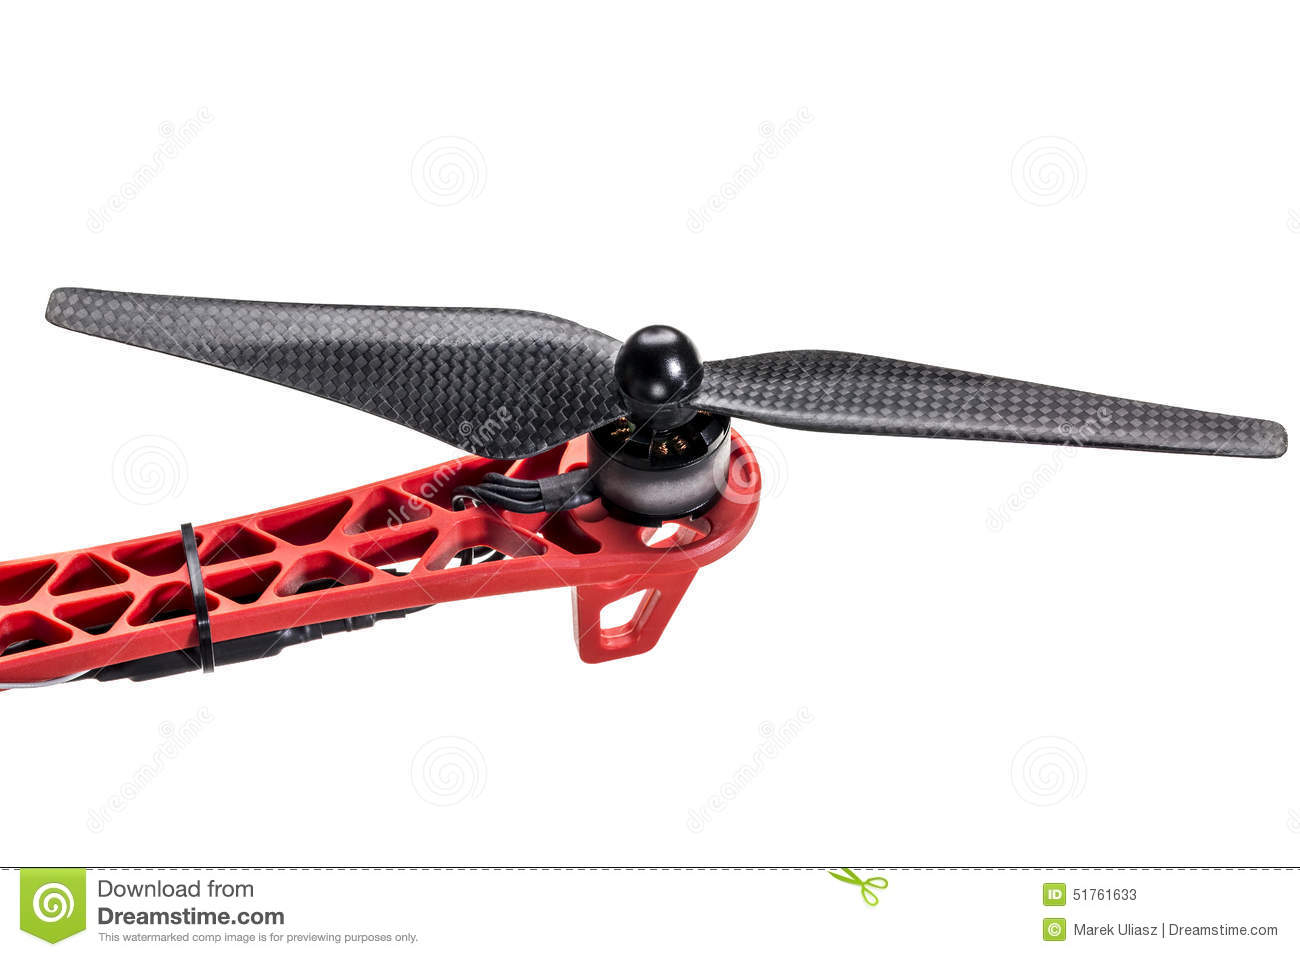
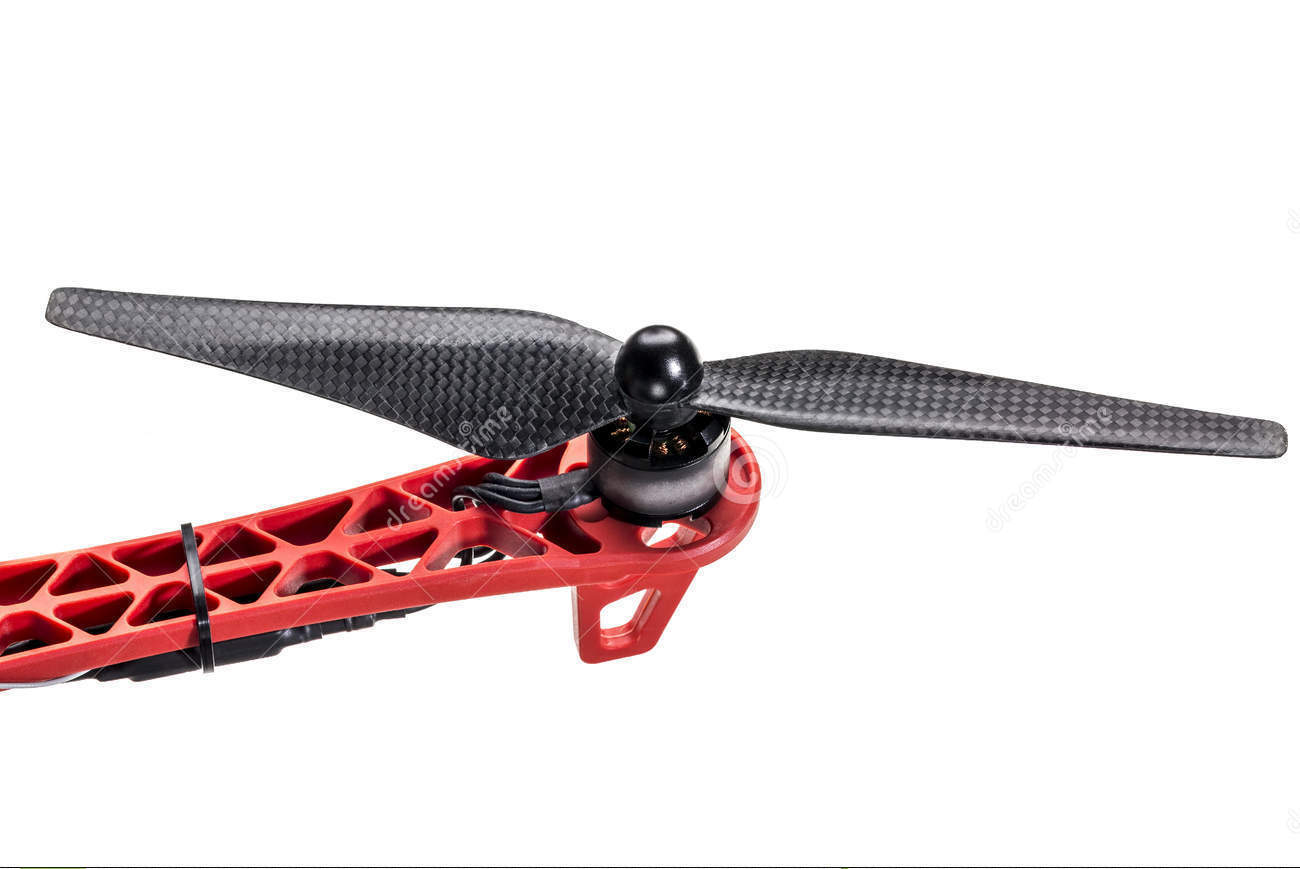
updated sizes

Changed region(s): [[0.0, 0.2796, 1.0, 0.8078], [0.0, 0.901, 1.0, 1.0]]

diff --git a/index.html b/index.html
@@ -62,14 +62,14 @@
 				<section>
 					<h2> Why do we need Robots?</h2>
 					<p> robots are used to do repetitive actions </p>
-					<img src="img/Robot Integration.jpg">
+					<img height="590px" src="img/Robot Integration.jpg">
 
 				</section>
 
 				<section>
 					<h2> Why do we need Robots?</h2>
 					<p> or jobs considered too dangerous for humans </p>
-					<img src="img/Scitech_Stuff-02.jpg">
+					<img height="590px" src="img/Scitech_Stuff-02.jpg">
 				</section>
 
 				<section>
@@ -103,12 +103,12 @@
 
 				<section>
 					<h2> Uses of Robots? - Exploration</h2>
-					<img src="img/Sojourner_on_Mars_PIA01122.jpg">
+					<img height="590px" src="img/Sojourner_on_Mars_PIA01122.jpg">
 				</section>
 
 				<section>
 					<h2> Uses of Robots? - Exploration</h2>
-					<img src="img/16102192209_be8f83c45a_k.jpg" >
+					<img height="590px" src="img/16102192209_be8f83c45a_k.jpg" >
 				</section>
 
 				<section>
@@ -123,12 +123,12 @@
 
 				<section>
 					<h2> Uses of Robots? - Homes</h2>
-					<img src="img/282274161_7d95625516_b.jpg">
+					<img height="590px" src="img/282274161_7d95625516_b.jpg">
 				</section>
 
 				<section>
 					<h2> Uses of Robots? - Photography</h2>
-					<img src="img/9059219148_59d452c97a_k.jpg">
+					<img height="590px" src="img/9059219148_59d452c97a_k.jpg">
 				</section>
 
 
@@ -148,12 +148,12 @@
 
 				<section>
 					<h2> Parts of Robots? - Mechanical</h2>
-					<img src="img/carbon-fiber-drone-propeller-motor-electric-arm-controller-51761633.jpg">
+					<img height="590px" src="img/carbon-fiber-drone-propeller-motor-electric-arm-controller-51761633.jpg">
 				</section>
 
 				<section>
 					<h2> Parts of Robots? - Mechanical</h2>
-					<img src="img/thruster-pair-1.jpg">
+					<img height="590px" src="img/thruster-pair-1.jpg">
 				</section>
 
 				<section>
